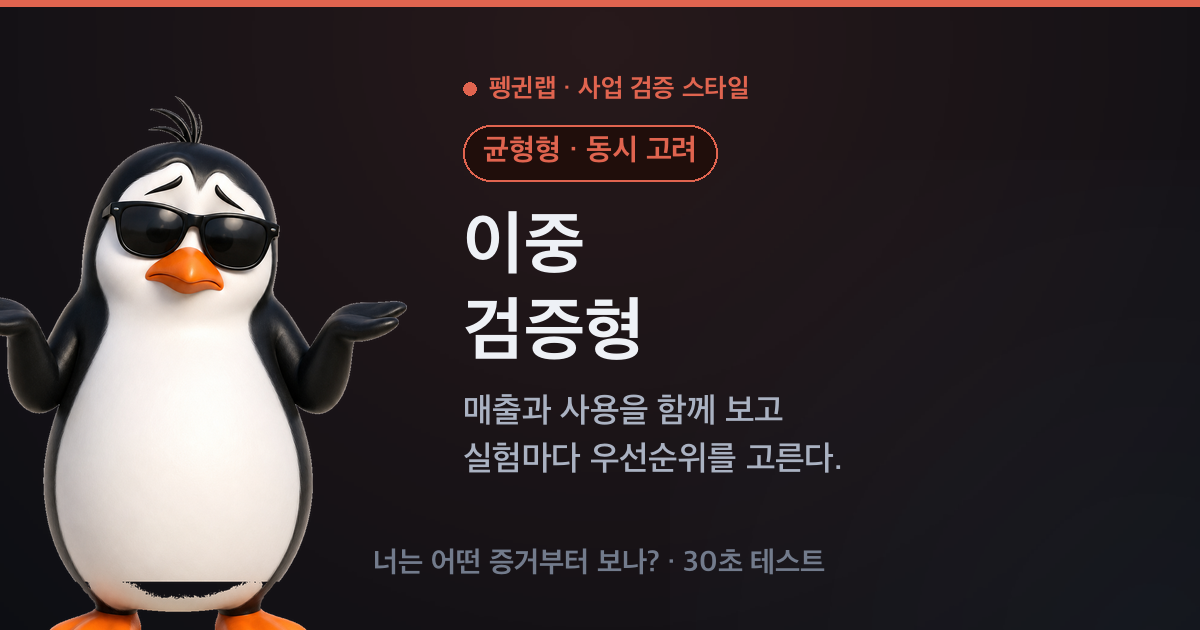
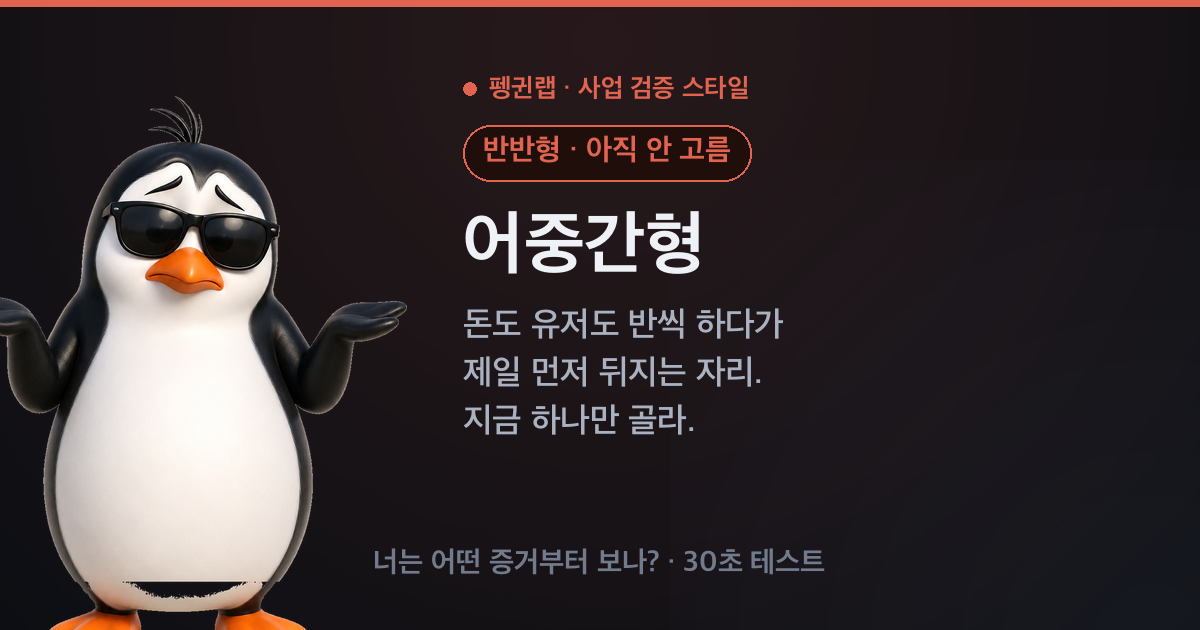
50:50 결과 프레임 수정 — 칭호에서 경고로

diff --git a/mix/index.html b/mix/index.html
@@ -4,26 +4,26 @@
 <meta charset="UTF-8">
 <meta name="viewport" content="width=device-width, initial-scale=1.0, viewport-fit=cover">
 <meta name="theme-color" content="#0c0e13">
-<title>균형형 · 이중 검증형 — 펭귄랩 사업 검증 스타일</title>
-<meta name="description" content="매출과 사용을 함께 보되, 실험마다 먼저 확인할 가설을 하나 고르는 편. 너는 어떤 증거부터 보는지 6문항으로 확인해봐.">
+<title>반반형 · 어중간형 — 펭귄랩 사업 검증 스타일</title>
+<meta name="description" content="돈도 확인하고 싶고 유저도 모으고 싶은 쪽. 근데 그 어중간한 놈이 제일 먼저 뒤진다. 너는 어떤 증거부터 보는지 6문항으로 확인해봐.">
 <link rel="canonical" href="https://thepenguinlab.github.io/ab-type-test/mix/">
 
 <meta property="og:type" content="website">
 <meta property="og:site_name" content="펭귄랩">
 <meta property="og:locale" content="ko_KR">
 <meta property="og:url" content="https://thepenguinlab.github.io/ab-type-test/mix/">
-<meta property="og:title" content="균형형 · 이중 검증형 — 펭귄랩 사업 검증 스타일">
-<meta property="og:description" content="매출과 사용을 함께 보되, 실험마다 먼저 확인할 가설을 하나 고르는 편. 너는 어떤 증거부터 보는지 6문항으로 확인해봐.">
+<meta property="og:title" content="반반형 · 어중간형 — 펭귄랩 사업 검증 스타일">
+<meta property="og:description" content="돈도 확인하고 싶고 유저도 모으고 싶은 쪽. 근데 그 어중간한 놈이 제일 먼저 뒤진다. 너는 어떤 증거부터 보는지 6문항으로 확인해봐.">
 <meta property="og:image" content="https://thepenguinlab.github.io/ab-type-test/assets/og/og-mix.png">
 <meta property="og:image:secure_url" content="https://thepenguinlab.github.io/ab-type-test/assets/og/og-mix.png">
 <meta property="og:image:type" content="image/png">
 <meta property="og:image:width" content="1200">
 <meta property="og:image:height" content="630">
-<meta property="og:image:alt" content="균형형 — 이중 검증형 · 펭귄랩 30초 진단">
+<meta property="og:image:alt" content="반반형 — 어중간형 · 펭귄랩 30초 진단">
 
 <meta name="twitter:card" content="summary_large_image">
-<meta name="twitter:title" content="균형형 · 이중 검증형 — 펭귄랩 사업 검증 스타일">
-<meta name="twitter:description" content="매출과 사용을 함께 보되, 실험마다 먼저 확인할 가설을 하나 고르는 편. 너는 어떤 증거부터 보는지 6문항으로 확인해봐.">
+<meta name="twitter:title" content="반반형 · 어중간형 — 펭귄랩 사업 검증 스타일">
+<meta name="twitter:description" content="돈도 확인하고 싶고 유저도 모으고 싶은 쪽. 근데 그 어중간한 놈이 제일 먼저 뒤진다. 너는 어떤 증거부터 보는지 6문항으로 확인해봐.">
 <meta name="twitter:image" content="https://thepenguinlab.github.io/ab-type-test/assets/og/og-mix.png">
 <style>
   :root{
@@ -100,19 +100,19 @@
   <div class="brand"><span class="dot"></span>펭귄랩 · 사업 검증 스타일</div>
 
   <div class="rhero tM">
-    <img src="../assets/expr_uhh.png" alt="이중 검증형">
-    <div class="badge">매출·사용 동시 고려</div>
-    <div class="code">균형형</div>
-    <div class="tname">이중 검증형</div>
-    <div class="tone">지불 신호와 사용 신호를 함께 본다. 강점은 균형이고, 관건은 매 실험마다 우선순위를 하나로 정하는 것이다.</div>
+    <img src="../assets/expr_uhh.png" alt="어중간형">
+    <div class="badge">제일 먼저 뒤지는 자리</div>
+    <div class="code">반반형</div>
+    <div class="tname">어중간형</div>
+    <div class="tone">균형이 아니다. 아직 안 고른 거다. 둘 다 반씩 하다가 어중간한 쪽이 제일 먼저 접는다. 지금 하나만 고르면 풀린다.</div>
   </div>
 
   <div class="card">
-    <h3>균형을 실행력으로 바꾸는 법</h3>
+    <h3>지금 하나만 골라</h3>
     <div class="rx warn">
-      <div class="rxh">균형형 — 이중 검증형</div>
+      <div class="rxh">반반형 — 어중간형</div>
       <ul><li><b>가장 위험한 가설부터.</b> 지금 모르는 게 지불 의사인지 반복 사용인지 먼저 적어.</li><li><b>한 실험엔 한 주지표.</b> 다른 신호는 버리지 말고 보조지표로만 둬.</li><li><b>순서로 결합해.</b> 사용→결제 또는 결제→사용처럼 두 실험을 연달아 설계해.</li><li><b>현실 조건을 반영해.</b> 현금 여유가 짧으면 매출, 반복 사용이 핵심이면 사용 검증을 앞세워.</li></ul>
-      <div class="who">강점: 한쪽 지표에 속을 가능성을 낮춤 · 맹점: 우선순위가 없으면 실험이 느려질 수 있음.</div>
+      <div class="who">진짜 위험: 둘 다 챙기는 동안 아무것도 끝까지 검증되지 않음 · 빠져나오는 법: 이번 실험의 주지표를 하나로 못 박는 것.</div>
     </div>
   </div>
 

diff --git a/index.html b/index.html
@@ -686,21 +686,21 @@ const RESULTS = {
     shareLine:"나는 사용 검증형. 누가 왜 다시 돌아오는지부터 확인해 제품 불확실성을 줄이는 편.",
     cmt:"누가 왜 다시 돌아오는지부터 확인하는 쪽." },
 
-  M:{ cls:"tM", code:"균형형", badge:"매출·사용 동시 고려",
-    name:"이중 검증형",
-    one:"지불 신호와 사용 신호를 함께 본다. 강점은 균형이고, 관건은 매 실험마다 우선순위를 하나로 정하는 것이다.",
+  M:{ cls:"tM", code:"반반형", badge:"제일 먼저 뒤지는 자리",
+    name:"어중간형",
+    one:"균형이 아니다. 아직 안 고른 거다. 둘 다 반씩 하다가 어중간한 쪽이 제일 먼저 접는다. 지금 하나만 고르면 풀린다.",
     img:MASCOT.M,
-    rxh:"균형을 실행력으로 바꾸는 법",
+    rxh:"지금 하나만 골라",
     rx:[
       "<b>가장 위험한 가설부터.</b> 지금 모르는 게 지불 의사인지 반복 사용인지 먼저 적어.",
       "<b>한 실험엔 한 주지표.</b> 다른 신호는 버리지 말고 보조지표로만 둬.",
       "<b>순서로 결합해.</b> 사용→결제 또는 결제→사용처럼 두 실험을 연달아 설계해.",
       "<b>현실 조건을 반영해.</b> 현금 여유가 짧으면 매출, 반복 사용이 핵심이면 사용 검증을 앞세워."
     ],
-    who:"강점: 한쪽 지표에 속을 가능성을 낮춤 · 맹점: 우선순위가 없으면 실험이 느려질 수 있음.",
-    bridge:"균형은 실패가 아니다. <b>이번 실험의 우선순위</b>만 분명하면 된다.",
-    shareLine:"나는 이중 검증형. 매출과 사용을 함께 보되, 실험마다 먼저 확인할 가설을 하나 고르는 편.",
-    cmt:"매출도 사용도 보고, 위험한 가설부터 치는 쪽." }
+    who:"진짜 위험: 둘 다 챙기는 동안 아무것도 끝까지 검증되지 않음 · 빠져나오는 법: 이번 실험의 주지표를 하나로 못 박는 것.",
+    bridge:"못 고르는 게 아니라 아직 안 고른 거다. <b>이번 실험의 주지표</b> 하나만 정하면 끝난다.",
+    shareLine:"나는 반반형 — 아직 안 고른 쪽. 이번 실험부터 주지표 하나만 정한다.",
+    cmt:"아직 안 골라서 반반. 이제 위험한 가설부터 하나만 친다." }
 };
 
 /* ---------- 공유 URL ----------
@@ -715,7 +715,7 @@ function shareURL(){
 
 /* ---------- 채점 ----------
    answers: 'a'|'b' 배열 (6개)
-   aCount 4~6 → 매출 검증형 / 0~2 → 사용 검증형 / 정확히 3:3 → 이중 검증형
+   aCount 4~6 → 매출 검증형 / 0~2 → 사용 검증형 / 정확히 3:3 → 어중간형(= 아직 안 고른 상태)
    ------------------------------------------------ */
 function score(answers){
   const n = answers.length;
@@ -741,7 +741,7 @@ function verdictText(s){
     if(s.edge===2)   return "A "+s.aCount+" : B "+s.bCount+". <b>사용 검증에 조금 더 기울었다.</b> 상황에 따라 매출 검증도 자연스럽게 병행한다.";
     return "A "+s.aCount+" : B "+s.bCount+". <b>사용 검증 선호가 뚜렷하다.</b> 수익화 시점을 미리 정하면 판단이 단단해진다.";
   }
-  return "A "+s.aCount+" : B "+s.bCount+". <b>두 증거를 균형 있게 본다.</b> 성향을 억지로 한쪽에 넣기보다, 지금 가장 위험한 가설을 먼저 고르면 된다.";
+  return "A "+s.aCount+" : B "+s.bCount+". <b>균형이 아니라 아직 안 고른 거다.</b> 지금 가장 위험한 가설 하나만 골라 거기부터 쳐.";
 }
 
 /* ---------- state ---------- */
